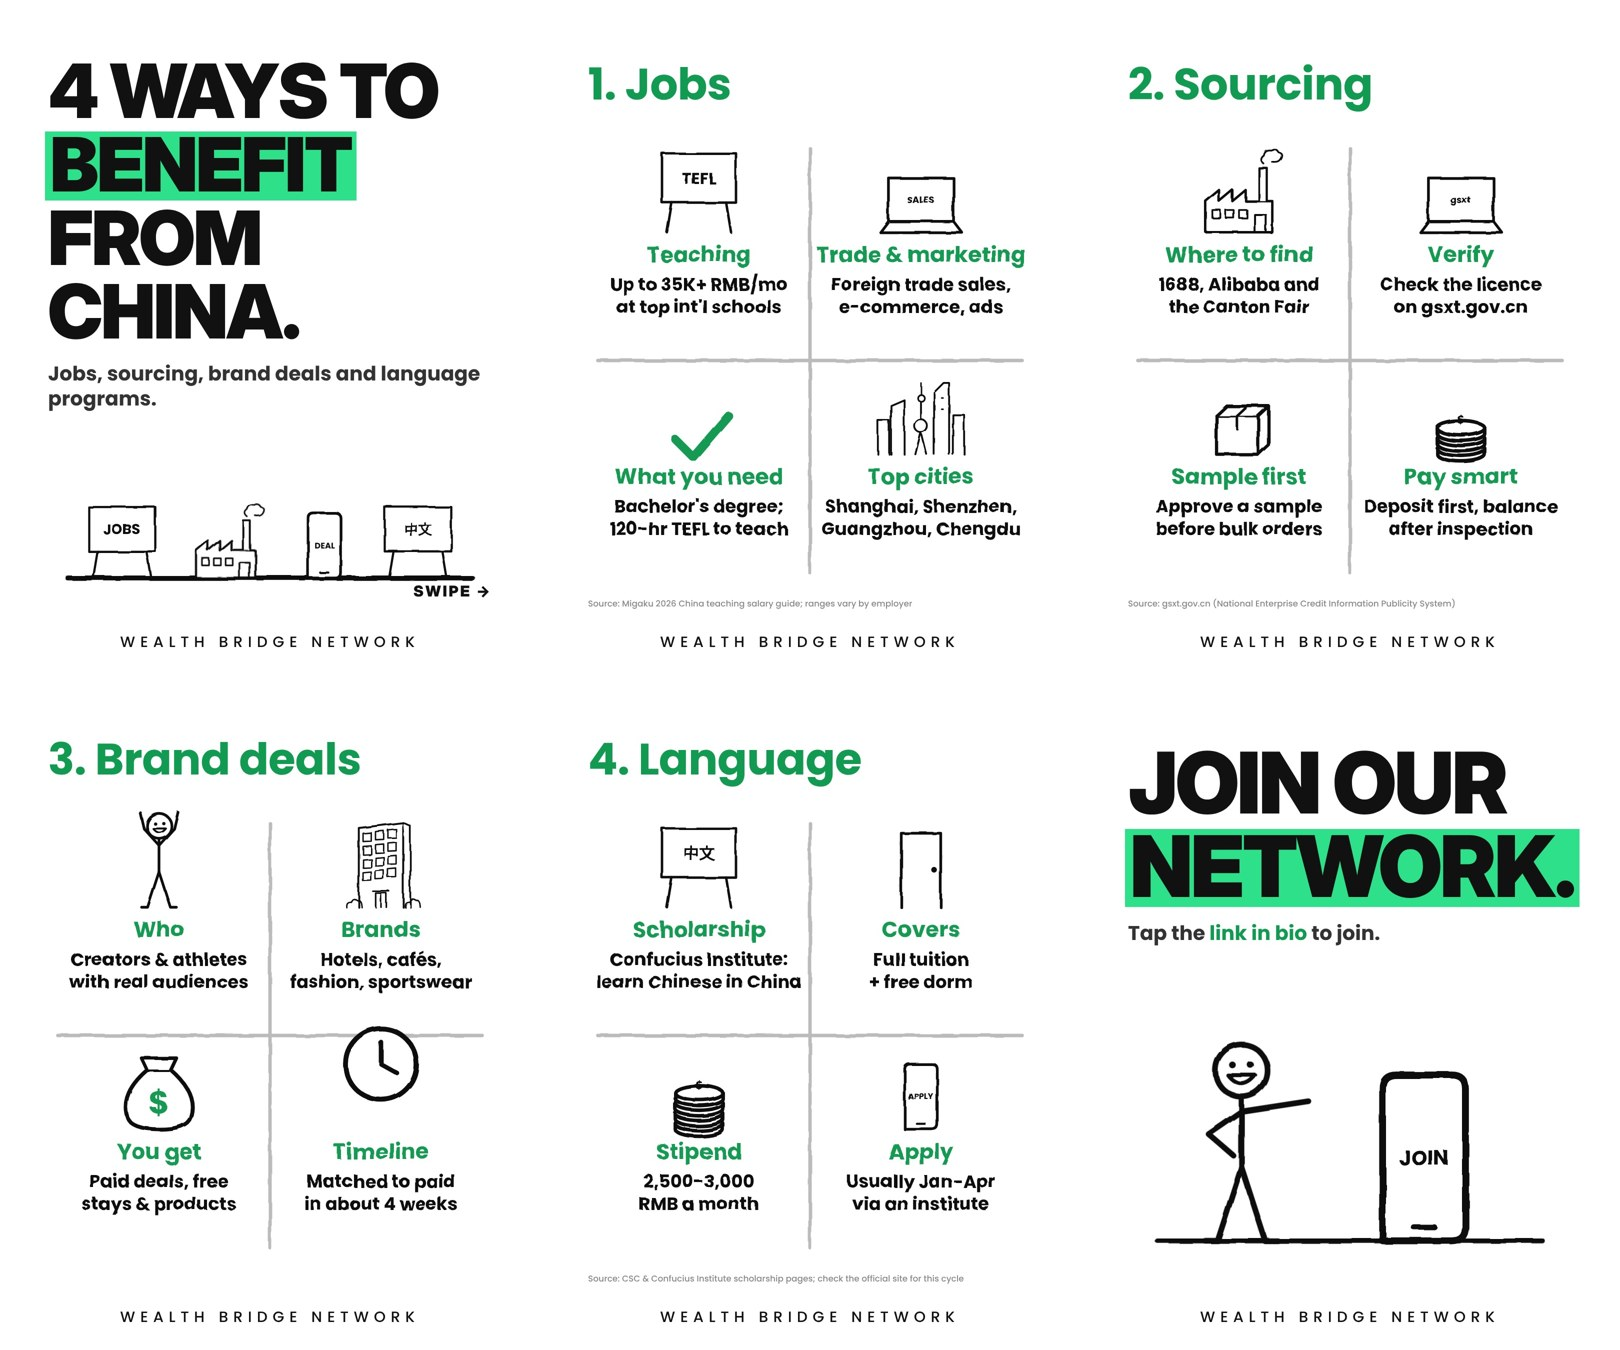
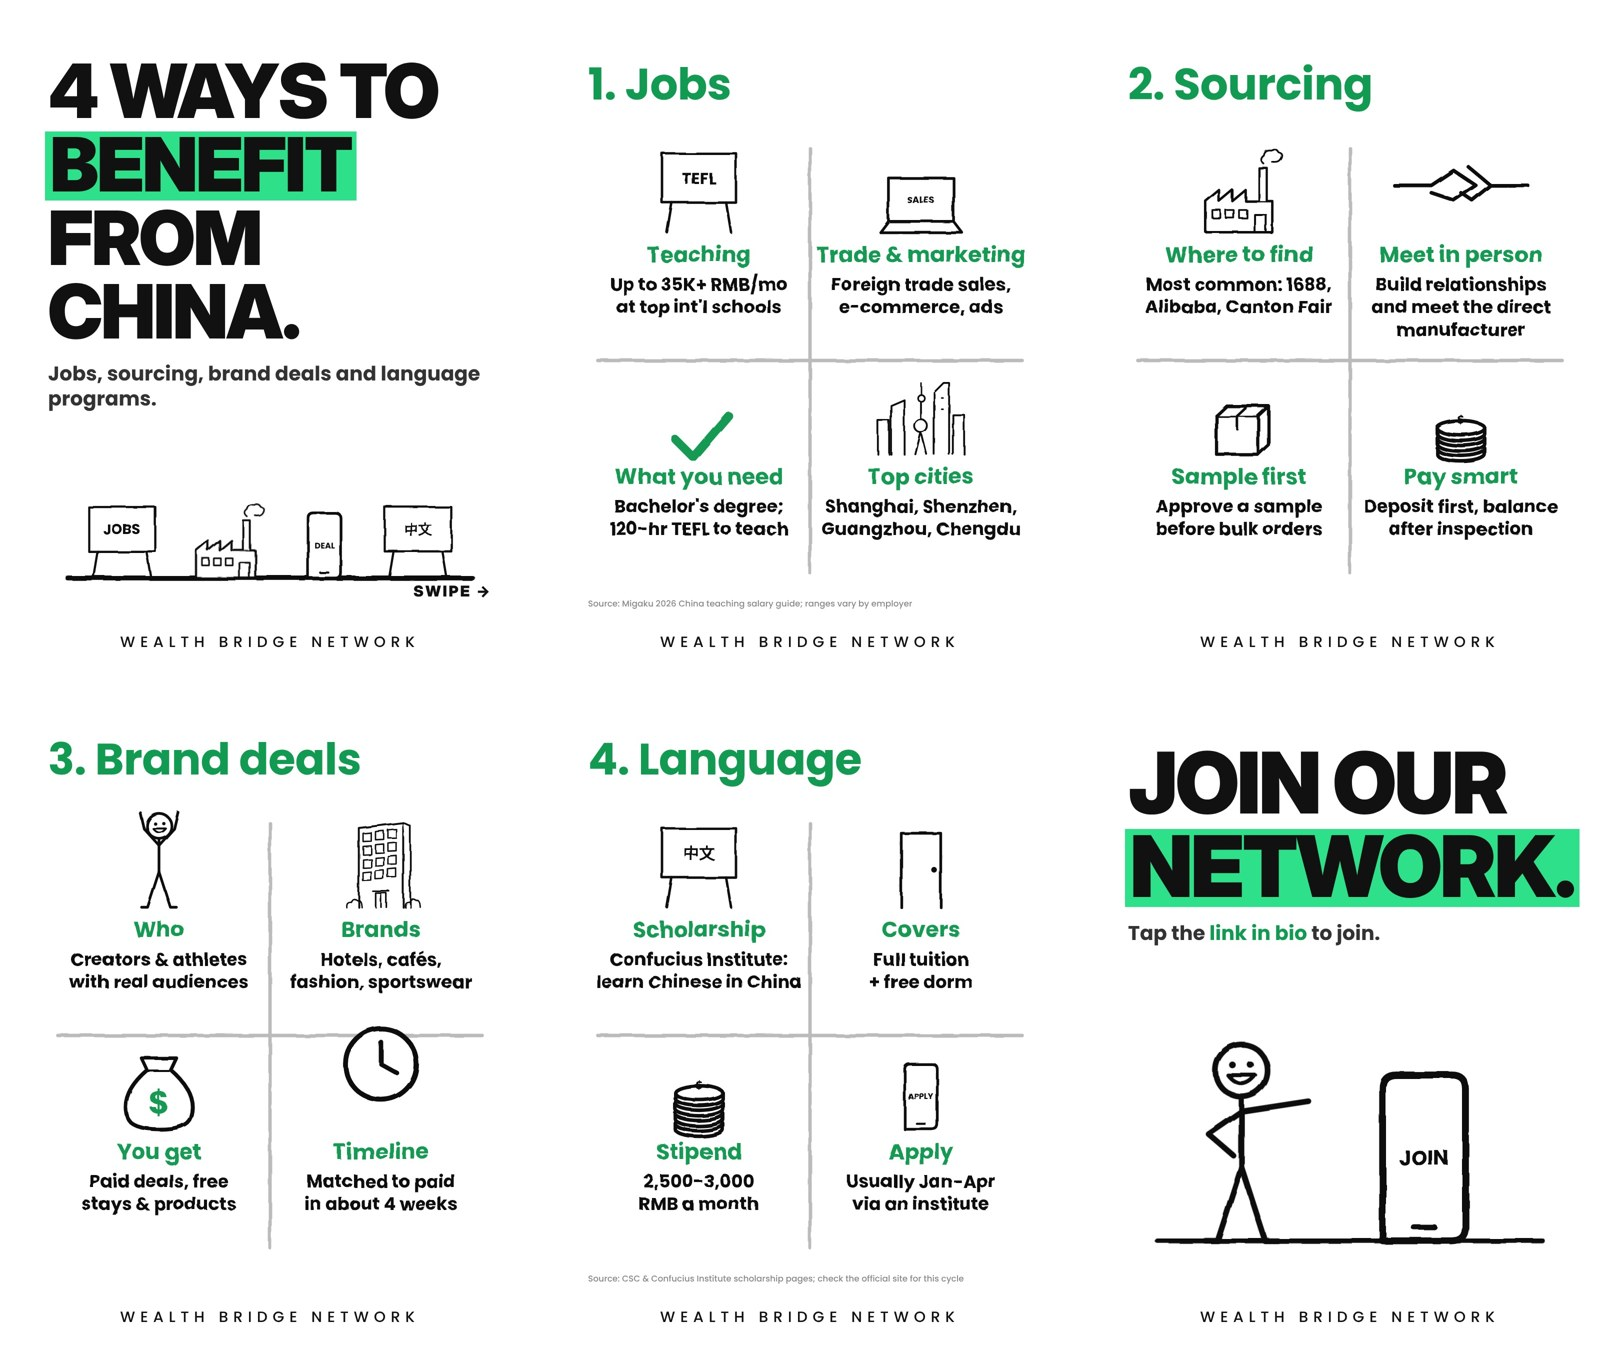
48-five-ways: sourcing 'most common' sources + meet manufacturers in person
Claude-Session: https://claude.ai/code/session_01XWHiAw1FC92SEhPtnn4Xv2

Changed region(s): [[0.7099, 0.1244, 0.9568, 0.2489]]

diff --git a/content/five_ways.py b/content/five_ways.py
@@ -49,11 +49,11 @@ dict(id="48-five-ways", pillar="Opportunities", title="4 ways to benefit from Ch
    (lambda x, y: skyline(x, y, 0.38), "Top cities", ["Shanghai, Shenzhen,", "Guangzhou, Chengdu"]),
  ], TEACH),
  topic(2, "Sourcing", [
-   (lambda x, y: factory(x, y, 0.45), "Where to find", ["1688, Alibaba and", "the Canton Fair"]),
-   (lambda x, y: laptop(x, y, 0.55, "gsxt"), "Verify", ["Check the licence", "on gsxt.gov.cn"]),
+   (lambda x, y: factory(x, y, 0.45), "Where to find", ["Most common: 1688,", "Alibaba, Canton Fair"]),
+   (lambda x, y: handshake_hands(x, y - 50, 0.75), "Meet in person", ["Build relationships", "and meet the direct", "manufacturer"]),
    (lambda x, y: box(x, y, 0.65), "Sample first", ["Approve a sample", "before bulk orders"]),
    (lambda x, y: coins(x, y, 0.8, 3), "Pay smart", ["Deposit first, balance", "after inspection"]),
- ], NECIPS),
+ ]),
  topic(3, "Brand deals", [
    (lambda x, y: figure(x, y, 0.55, "up", "grin"), "Who", ["Creators & athletes", "with real audiences"]),
    (lambda x, y: tower(x, y, 0.36), "Brands", ["Hotels, cafés,", "fashion, sportswear"]),
